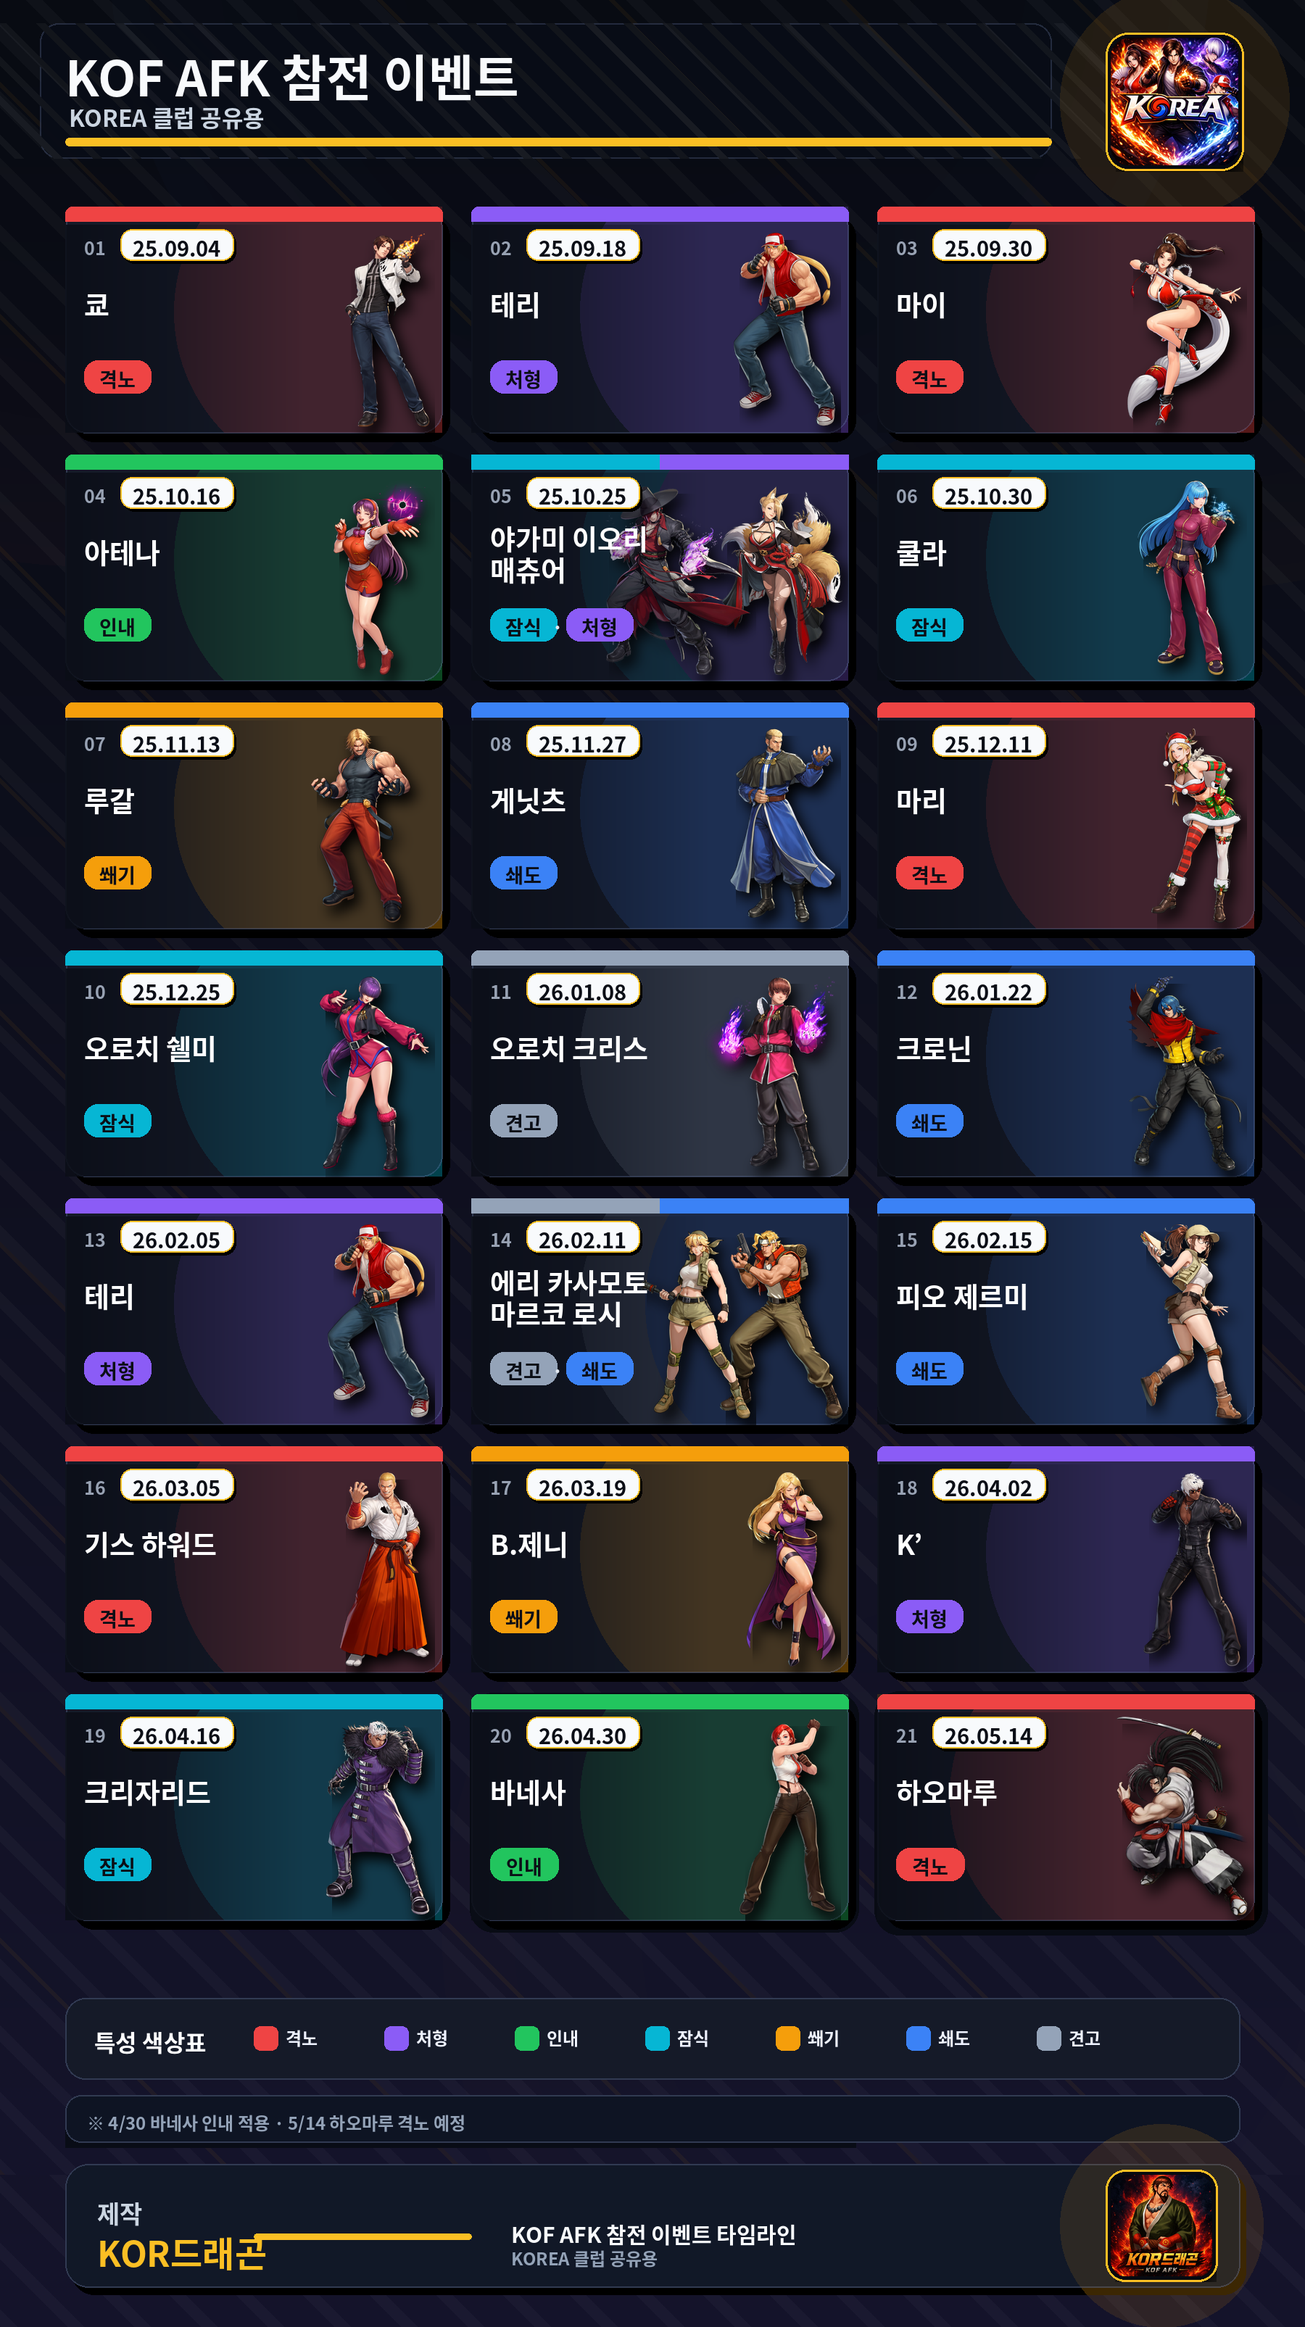
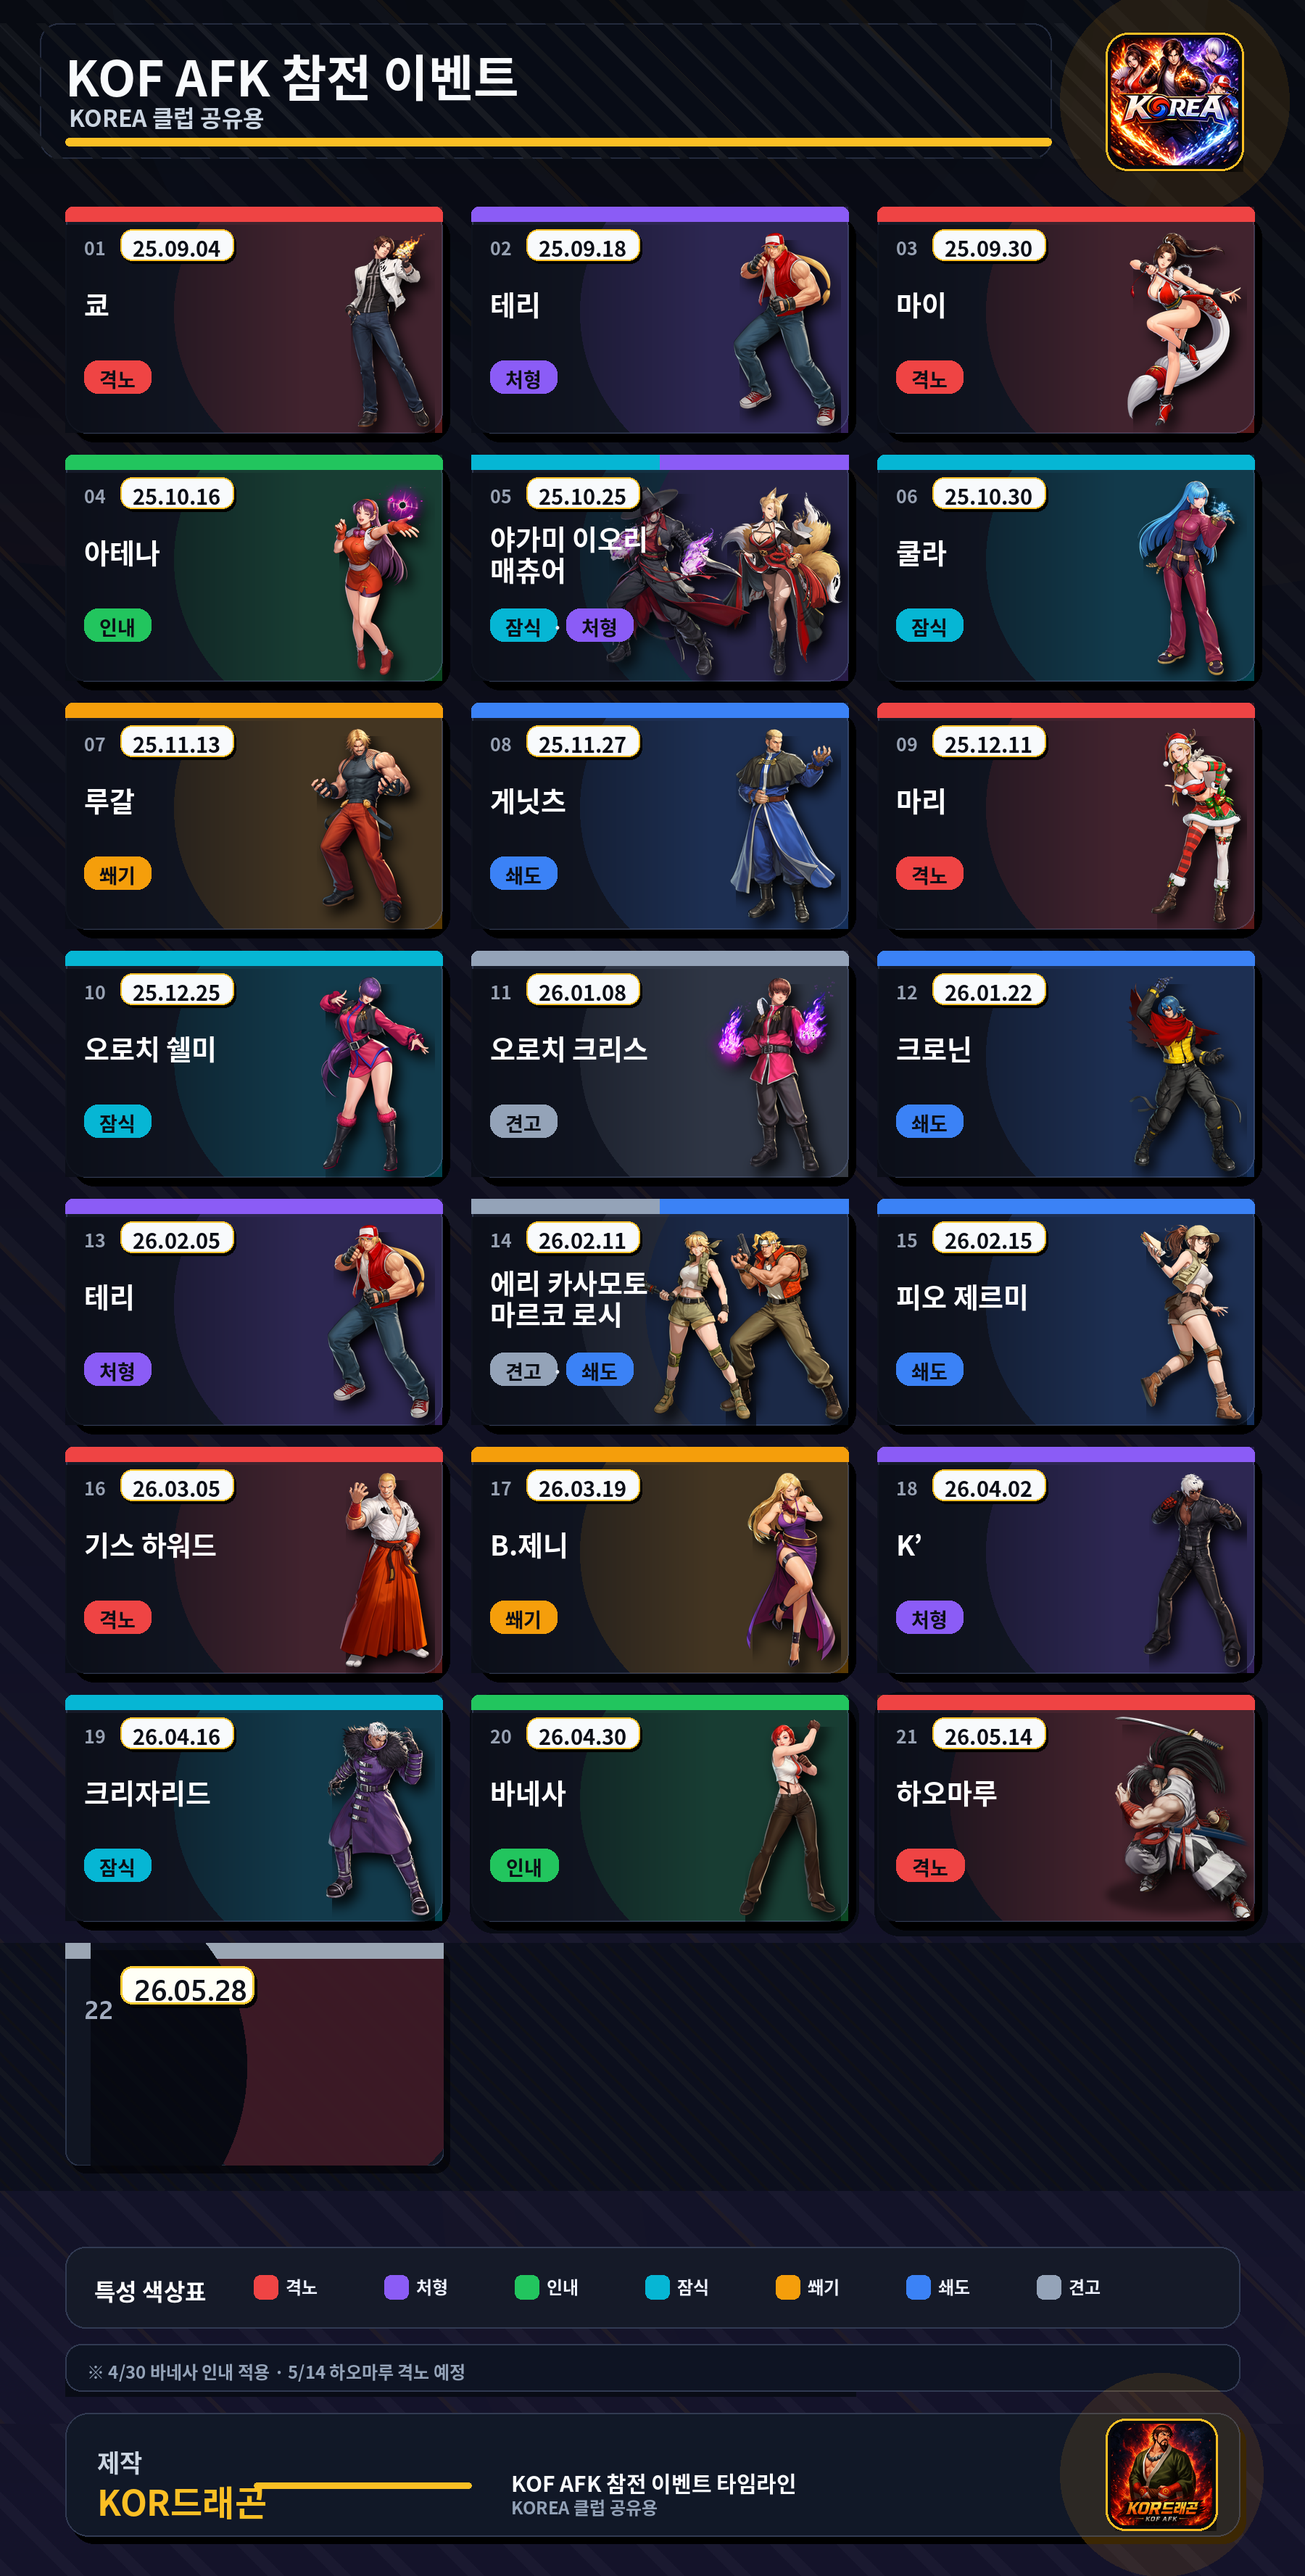
Update KOF AFK entry event poster

diff --git a/app/kof-afk-entry-event/page.tsx b/app/kof-afk-entry-event/page.tsx
@@ -66,7 +66,7 @@ export default function KofAfkEntryEventPage() {
               src={posterImagePath}
               alt="KOF AFK 참전 이벤트 타임라인"
               width={1800}
-              height={3210}
+              height={3552}
               priority
               sizes="(max-width: 640px) 100vw, (max-width: 1024px) 92vw, 1040px"
               className="h-auto w-full select-none"
